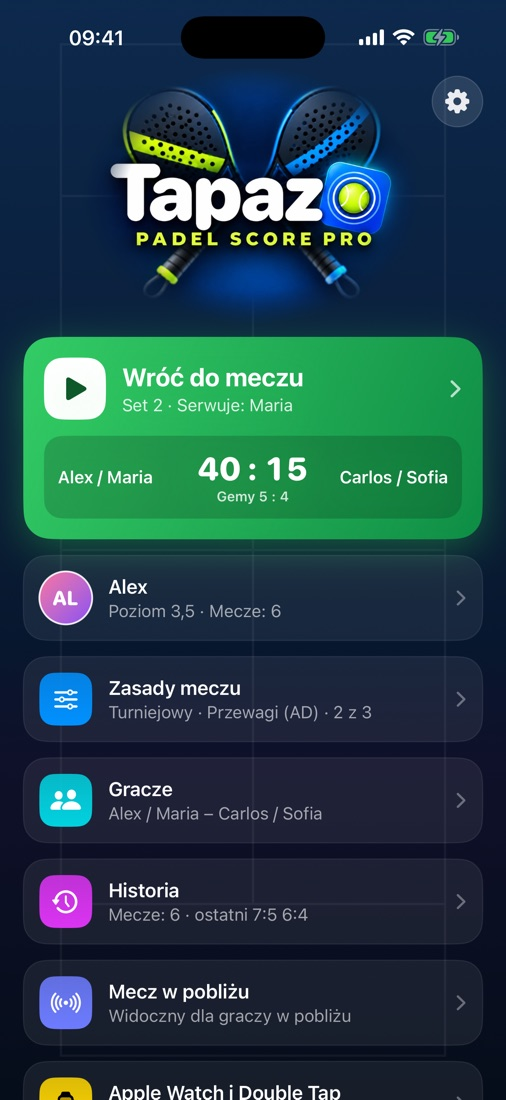
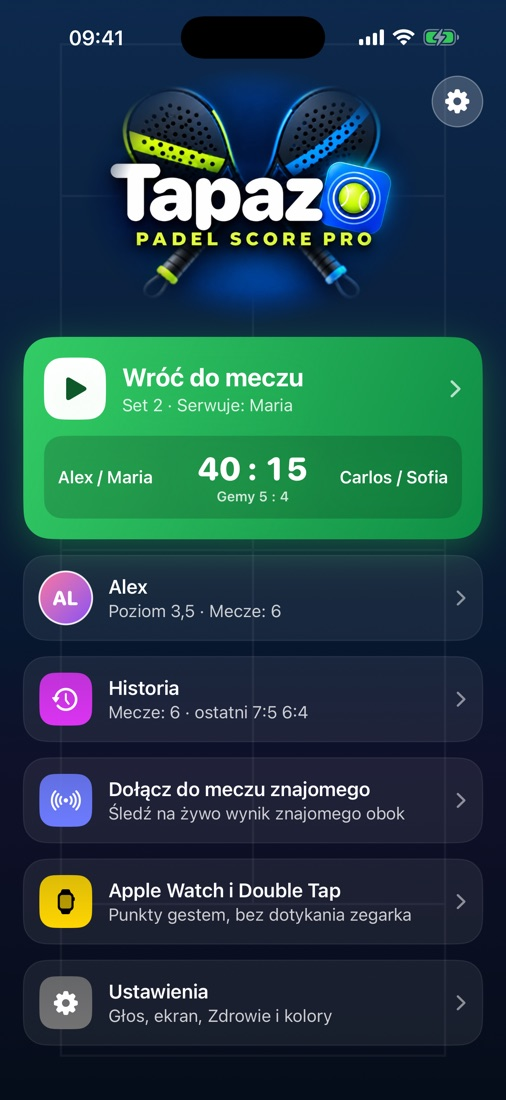
Website: new screenshots and updated help in PL, EN and ES
From mlodylbn/padelscore-app@2e7f845

Changed region(s): [[0.0593, 0.5873, 0.8004, 1.0], [0.7115, 0.8036, 0.8004, 0.8345], [0.919, 0.0927, 0.9486, 0.1236]]

diff --git a/support/index.html b/support/index.html
@@ -103,18 +103,18 @@
     <details>
       <summary><span lang="pl">Czym różni się mecz towarzyski od turniejowego?</span><span lang="en">What is the difference between a friendly and a tournament match?</span><span lang="es">¿Qué diferencia hay entre un partido amistoso y uno de torneo?</span></summary>
       <div class="answer">
-        <p lang="pl">W&nbsp;meczu towarzyskim strony zmienia się tylko po każdym secie. W&nbsp;meczu turniejowym, jak w&nbsp;oficjalnych przepisach, po nieparzystych gemach i&nbsp;co 6&nbsp;punktów w&nbsp;tie-breaku. Nowy mecz jest domyślnie towarzyski, a&nbsp;rodzaj zmienisz w&nbsp;Zasadach meczu. Tam włączysz też odliczanie czasu na zmianę stron: osobno po secie i&nbsp;po gemie, 90, 120 lub 180&nbsp;s. Gdy czas minie, zegarek zawibruje.</p>
-        <p lang="en">In a friendly match, ends change only after each set. In a tournament match, as in the official rules, they change after odd games and every 6 points of a tie-break. A new match is friendly by default; change the type in Match rules. There you can also turn on a change of ends timer: separately after a set and after a game, 90, 120 or 180&nbsp;s. When the time is up, the watch taps your wrist.</p>
-        <p lang="es">En un partido amistoso, el cambio de lado se hace solo tras cada set. En un partido de torneo, como en el reglamento oficial, tras los juegos impares y cada 6 puntos del tie-break. Un partido nuevo es amistoso por defecto; cambia el tipo en Reglas del partido. Allí también puedes activar un temporizador para el cambio de lado: por separado tras un set y tras un juego, 90, 120 o 180&nbsp;s. Cuando se acaba el tiempo, el reloj te avisa en la muñeca.</p>
+        <p lang="pl">W&nbsp;meczu towarzyskim strony zmienia się tylko po każdym secie. W&nbsp;meczu turniejowym, jak w&nbsp;oficjalnych przepisach, po nieparzystych gemach i&nbsp;co 6&nbsp;punktów w&nbsp;tie-breaku. Rodzaj meczu wybierasz na ekranie „Nowy mecz”, a&nbsp;w&nbsp;trakcie gry zmienisz go w&nbsp;menu meczu („…” › Więcej › Zasady meczu). Tam włączysz też odliczanie czasu na zmianę stron: osobno po secie i&nbsp;po gemie, 90, 120 lub 180&nbsp;s. Gdy czas minie, zegarek zawibruje.</p>
+        <p lang="en">In a friendly match, ends change only after each set. In a tournament match, as in the official rules, they change after odd games and every 6 points of a tie-break. Choose the match type on the “New match” screen; during play, change it in the match menu (“…” › More › Match rules). There you can also turn on a change of ends timer: separately after a set and after a game, 90, 120 or 180&nbsp;s. When the time is up, the watch taps your wrist.</p>
+        <p lang="es">En un partido amistoso, el cambio de lado se hace solo tras cada set. En un partido de torneo, como en el reglamento oficial, tras los juegos impares y cada 6 puntos del tie-break. Elige el tipo de partido en la pantalla «Nuevo partido»; durante el juego, cámbialo en el menú del partido («…» › Más › Reglas del partido). Allí también puedes activar un temporizador para el cambio de lado: por separado tras un set y tras un juego, 90, 120 o 180&nbsp;s. Cuando se acaba el tiempo, el reloj te avisa en la muñeca.</p>
       </div>
     </details>
 
     <details>
       <summary><span lang="pl">Nie mogę zmienić formatu meczu</span><span lang="en">I can't change the match format</span><span lang="es">No puedo cambiar el formato del partido</span></summary>
       <div class="answer">
-        <p lang="pl">Liczbę setów, długość setów i&nbsp;super tie-break można zmienić tylko przed pierwszym punktem, aby nie zepsuć trwającego wyniku. Rozpocznij nowy mecz („Nowy mecz”), a&nbsp;potem zmień format w&nbsp;Zasadach meczu. Punktację przy 40:40, rodzaj meczu i&nbsp;czas na zmianę stron możesz zmienić w&nbsp;każdej chwili.</p>
-        <p lang="en">The number of sets, set length and super tie-break can only be changed before the first point, so a running score stays valid. Start a new match ("New match"), then change the format in Match rules. The scoring at 40:40, the match type and the change of ends timer can be changed at any time.</p>
-        <p lang="es">El número de sets, su duración y el súper tie-break solo se pueden cambiar antes del primer punto, para que el marcador en curso siga siendo válido. Empieza un partido nuevo («Nuevo partido») y cambia el formato en Reglas del partido. El tanteo con 40:40, el tipo de partido y el temporizador de cambio de lado se pueden cambiar en cualquier momento.</p>
+        <p lang="pl">Liczbę setów, długość setów i&nbsp;super tie-break można zmienić tylko przed pierwszym punktem, aby nie zepsuć trwającego wyniku. Stuknij „Nowy mecz” i&nbsp;zmień format przyciskiem „Zmień” przy zasadach. Punktację przy 40:40, rodzaj meczu i&nbsp;czas na zmianę stron możesz zmienić w&nbsp;każdej chwili.</p>
+        <p lang="en">The number of sets, set length and super tie-break can only be changed before the first point, so a running score stays valid. Tap "New match" and change the format with the "Change" button next to the rules. The scoring at 40:40, the match type and the change of ends timer can be changed at any time.</p>
+        <p lang="es">El número de sets, su duración y el súper tie-break solo se pueden cambiar antes del primer punto, para que el marcador en curso siga siendo válido. Toca «Nuevo partido» y cambia el formato con el botón «Cambiar» junto a las reglas. El tanteo con 40:40, el tipo de partido y el temporizador de cambio de lado se pueden cambiar en cualquier momento.</p>
       </div>
     </details>
 
@@ -139,18 +139,18 @@
     <details>
       <summary><span lang="pl">Mecz nie zapisuje się jako trening</span><span lang="en">The match isn't saved as a workout</span><span lang="es">El partido no se guarda como entrenamiento</span></summary>
       <div class="answer">
-        <p lang="pl">Włącz „Zapisuj mecz jako trening” w&nbsp;ustawieniach i&nbsp;zezwól Tapazo na dostęp do Zdrowia na zegarku. Trening startuje z&nbsp;pierwszym punktem albo ręcznie z&nbsp;menu zegarka. Uprawnienia zmienisz w&nbsp;Ustawieniach › Zdrowie › Dostęp do danych i&nbsp;urządzenia › Tapazo.</p>
-        <p lang="en">Turn on "Save match as workout" in settings and allow Tapazo to access Health on your watch. The workout starts with the first point, or manually from the watch menu. You can change permissions in Settings › Health › Data Access &amp; Devices › Tapazo.</p>
-        <p lang="es">Activa «Guardar partido como entrenamiento» en los ajustes y permite que Tapazo acceda a Salud en tu reloj. El entrenamiento empieza con el primer punto o manualmente desde el menú del reloj. Puedes cambiar los permisos en Ajustes › Salud › Acceso a datos y dispositivos › Tapazo.</p>
+        <p lang="pl">Opcja „Zapisuj mecz jako trening” jest domyślnie włączona (Ustawienia › Zdrowie). Po ekranie powitalnym zegarek wyjaśnia, co zapisuje, i&nbsp;prosi o&nbsp;dostęp do Zdrowia – trzeba się zgodzić. Po wybraniu „Nie teraz” włącz zapis ponownie w&nbsp;menu zegarka albo w&nbsp;ustawieniach na iPhonie. Trening startuje z&nbsp;pierwszym punktem albo ręcznie z&nbsp;menu zegarka. Uprawnienia zmienisz w&nbsp;Ustawieniach › Zdrowie › Dostęp do danych i&nbsp;urządzenia › Tapazo.</p>
+        <p lang="en">"Save match as workout" is on by default (Settings › Health). After its welcome screen, the watch explains what is saved and asks for Health access – please allow it. If you chose "Not now", turn it back on in the watch menu or in settings on your iPhone. The workout starts with the first point, or manually from the watch menu. You can change permissions in Settings › Health › Data Access &amp; Devices › Tapazo.</p>
+        <p lang="es">«Guardar partido como entrenamiento» está activado por defecto (Ajustes › Salud). Tras la pantalla de bienvenida, el reloj explica qué se guarda y pide acceso a Salud: permítelo. Si elegiste «Ahora no», vuelve a activarlo en el menú del reloj o en los ajustes del iPhone. El entrenamiento empieza con el primer punto o manualmente desde el menú del reloj. Puedes cambiar los permisos en Ajustes › Salud › Acceso a datos y dispositivos › Tapazo.</p>
       </div>
     </details>
 
     <details>
       <summary><span lang="pl">Jak usunąć mecz z&nbsp;historii?</span><span lang="en">How do I delete a match from history?</span><span lang="es">¿Cómo elimino un partido del historial?</span></summary>
       <div class="answer">
-        <p lang="pl">Na iPhonie otwórz Historię, przytrzymaj kartę meczu i&nbsp;wybierz „Usuń mecz”. Możesz też otworzyć mecz i&nbsp;stuknąć „Usuń mecz” na dole. Całą historię usuniesz przyciskiem „Usuń całą historię” na samym dole Historii. Mecz zniknie z&nbsp;obu urządzeń. Trening zapisany w&nbsp;Zdrowiu usuniesz w&nbsp;aplikacji Zdrowie.</p>
-        <p lang="en">On iPhone, open History, touch and hold a match card and choose "Delete match". You can also open the match and tap "Delete match" at the bottom. To clear everything, tap "Delete all history" at the very bottom of History. The match is removed from both devices. A workout saved in Health can be deleted in the Health app.</p>
-        <p lang="es">En el iPhone, abre Historial, mantén pulsada la tarjeta de un partido y elige «Eliminar partido». También puedes abrir el partido y tocar «Eliminar partido» abajo. Para borrarlo todo, toca «Eliminar todo el historial» al final del Historial. El partido se elimina de los dos dispositivos. Un entrenamiento guardado en Salud se puede borrar en la app Salud.</p>
+        <p lang="pl">Na iPhonie otwórz Historię, przytrzymaj kartę meczu i&nbsp;wybierz „Usuń mecz”. Możesz też otworzyć mecz i&nbsp;stuknąć ikonę kosza w&nbsp;prawym górnym rogu. Całą historię usuniesz przyciskiem „Usuń całą historię” na samym dole Historii. Mecz zniknie z&nbsp;obu urządzeń. Trening zapisany w&nbsp;Zdrowiu usuniesz w&nbsp;aplikacji Zdrowie.</p>
+        <p lang="en">On iPhone, open History, touch and hold a match card and choose "Delete match". You can also open the match and tap the trash icon in the top right corner. To clear everything, tap "Delete all history" at the very bottom of History. The match is removed from both devices. A workout saved in Health can be deleted in the Health app.</p>
+        <p lang="es">En el iPhone, abre Historial, mantén pulsada la tarjeta de un partido y elige «Eliminar partido». También puedes abrir el partido y tocar el icono de la papelera arriba a la derecha. Para borrarlo todo, toca «Eliminar todo el historial» al final del Historial. El partido se elimina de los dos dispositivos. Un entrenamiento guardado en Salud se puede borrar en la app Salud.</p>
       </div>
     </details>
 
@@ -166,9 +166,9 @@
     <details>
       <summary><span lang="pl">Jak dodać znajomego do meczu?</span><span lang="en">How do I add a friend to a match?</span><span lang="es">¿Cómo añado a un amigo a un partido?</span></summary>
       <div class="answer">
-        <p lang="pl">Znajomy otwiera Tapazo na swoim iPhonie. U&nbsp;Ciebie pojawi się w&nbsp;sekcji „W&nbsp;pobliżu” na ekranie „Nowy mecz” (i&nbsp;w&nbsp;Graczach). Stuknij go i&nbsp;wybierz drużynę. Znajomy dostanie zaproszenie, a&nbsp;po dołączeniu zobaczy wynik na swoim iPhonie i&nbsp;Apple&nbsp;Watch. Punkty liczysz tylko Ty, a&nbsp;po meczu każdy ma go w&nbsp;swojej historii. Przy pierwszym użyciu iOS poprosi o&nbsp;dostęp do sieci lokalnej – trzeba się zgodzić.</p>
-        <p lang="en">Your friend opens Tapazo on their iPhone. On yours, they appear under “Nearby” on the “New match” screen (and in Players). Tap them and choose a team. Your friend gets an invitation and, after joining, sees the score on their iPhone and Apple&nbsp;Watch. Only you score points, and after the match everyone has it in their history. The first time, iOS asks for local network access – please allow it.</p>
-        <p lang="es">Tu amigo abre Tapazo en su iPhone. En el tuyo aparece en la sección «Cerca» de la pantalla «Nuevo partido» (y en Jugadores). Tócalo y elige un equipo. Tu amigo recibe una invitación y, tras unirse, ve el marcador en su iPhone y su Apple&nbsp;Watch. Solo tú marcas los puntos y, al terminar, todos tienen el partido en su historial. La primera vez, iOS pide acceso a la red local: permítelo.</p>
+        <p lang="pl">Znajomy otwiera Tapazo na swoim iPhonie. U&nbsp;Ciebie pojawi się w&nbsp;sekcji „W&nbsp;pobliżu” na ekranie „Nowy mecz”. W&nbsp;trakcie meczu zaprosisz go z&nbsp;menu „…” › Więcej › Zaproś znajomych z&nbsp;pobliża. Stuknij go i&nbsp;wybierz drużynę. Znajomy dostanie zaproszenie, a&nbsp;po dołączeniu zobaczy wynik na swoim iPhonie i&nbsp;Apple&nbsp;Watch. Punkty liczysz tylko Ty, a&nbsp;po meczu każdy ma go w&nbsp;swojej historii. Przy pierwszym użyciu iOS poprosi o&nbsp;dostęp do sieci lokalnej – trzeba się zgodzić.</p>
+        <p lang="en">Your friend opens Tapazo on their iPhone. On yours, they appear under “Nearby” on the “New match” screen. During a match, invite them from the “…” menu › More › Invite friends nearby. Tap them and choose a team. Your friend gets an invitation and, after joining, sees the score on their iPhone and Apple&nbsp;Watch. Only you score points, and after the match everyone has it in their history. The first time, iOS asks for local network access – please allow it.</p>
+        <p lang="es">Tu amigo abre Tapazo en su iPhone. En el tuyo aparece en la sección «Cerca» de la pantalla «Nuevo partido». Durante el partido, invítalo desde el menú «…» › Más › Invitar a amigos cercanos. Tócalo y elige un equipo. Tu amigo recibe una invitación y, tras unirse, ve el marcador en su iPhone y su Apple&nbsp;Watch. Solo tú marcas los puntos y, al terminar, todos tienen el partido en su historial. La primera vez, iOS pide acceso a la red local: permítelo.</p>
       </div>
     </details>
 
@@ -184,9 +184,9 @@
     <details>
       <summary><span lang="pl">Jak działa Americano?</span><span lang="en">How does Americano work?</span><span lang="es">¿Cómo funciona el Americano?</span></summary>
       <div class="answer">
-        <p lang="pl">W&nbsp;Zasadach meczu wybierz „Americano” i&nbsp;sumę punktów: 16, 21, 24, 32 albo własną. Punkty liczy się 1, 2, 3…, a&nbsp;mecz kończy się, gdy obie drużyny razem zdobędą tę sumę. Serwis zmienia się co ustaloną liczbę punktów. Opcjonalnie strony zmienia się w&nbsp;połowie meczu.</p>
-        <p lang="en">In Match rules, choose “Americano” and the total: 16, 21, 24, 32 or your own. Points are counted 1, 2, 3…, and the match ends when both teams together reach the total. The serve changes every set number of points. Optionally, teams change ends at half time.</p>
-        <p lang="es">En Reglas del partido, elige «Americano» y el total: 16, 21, 24, 32 o el que quieras. Los puntos se cuentan 1, 2, 3… y el partido termina cuando los dos equipos juntos llegan al total. El saque cambia cada cierto número de puntos. Si quieres, los equipos cambian de lado a mitad del partido.</p>
+        <p lang="pl">Na ekranie „Nowy mecz” wybierz „Americano” i&nbsp;sumę punktów: 16, 21, 24, 32 albo własną. Punkty liczy się 1, 2, 3…, a&nbsp;mecz kończy się, gdy obie drużyny razem zdobędą tę sumę. Serwis zmienia się co ustaloną liczbę punktów. Opcjonalnie strony zmienia się w&nbsp;połowie meczu.</p>
+        <p lang="en">On the “New match” screen, choose “Americano” and the total: 16, 21, 24, 32 or your own. Points are counted 1, 2, 3…, and the match ends when both teams together reach the total. The serve changes every set number of points. Optionally, teams change ends at half time.</p>
+        <p lang="es">En la pantalla «Nuevo partido», elige «Americano» y el total: 16, 21, 24, 32 o el que quieras. Los puntos se cuentan 1, 2, 3… y el partido termina cuando los dos equipos juntos llegan al total. El saque cambia cada cierto número de puntos. Si quieres, los equipos cambian de lado a mitad del partido.</p>
       </div>
     </details>
 

diff --git a/index.html b/index.html
@@ -154,7 +154,7 @@
       <article class="card reveal">
         <div class="icon c-teal"><svg class="i"><use href="#i-wave"/></svg></div>
         <h3><span lang="pl">Mecz ze znajomymi w&nbsp;pobliżu</span><span lang="en">Play with friends nearby</span><span lang="es">Juega con amigos cercanos</span></h3>
-        <p><span lang="pl">Znajomi z&nbsp;Tapazo na korcie pojawiają się w&nbsp;Graczach. Dodaj ich do drużyny, a&nbsp;wynik zobaczą na swoim iPhonie i&nbsp;zegarku. Mecz trafi też do ich historii. Bez internetu.</span><span lang="en">Friends with Tapazo on court appear in Players. Add them to a team and they see the score on their iPhone and watch. The match goes into their history too. No internet needed.</span><span lang="es">Los amigos con Tapazo en la pista aparecen en Jugadores. Añádelos a un equipo y verán el marcador en su iPhone y su reloj. El partido también se guarda en su historial. Sin internet.</span></p>
+        <p><span lang="pl">Znajomi z&nbsp;Tapazo na korcie pojawiają się na ekranie „Nowy mecz”. Dodaj ich do drużyny, a&nbsp;wynik zobaczą na swoim iPhonie i&nbsp;zegarku. Mecz trafi też do ich historii. Bez internetu.</span><span lang="en">Friends with Tapazo on court appear on the New match screen. Add them to a team and they see the score on their iPhone and watch. The match goes into their history too. No internet needed.</span><span lang="es">Los amigos con Tapazo en la pista aparecen en la pantalla Nuevo partido. Añádelos a un equipo y verán el marcador en su iPhone y su reloj. El partido también se guarda en su historial. Sin internet.</span></p>
       </article>
       <article class="card reveal">
         <div class="icon c-pink"><svg class="i"><use href="#i-user"/></svg></div>
@@ -273,7 +273,7 @@
       <figure class="shot reveal">
         <div class="frame"><img src="assets/iphone-home.jpg" loading="lazy" width="506" height="1100" alt="Menu startowe Tapazo z trwającym meczem" data-en="assets/en/iphone-home.jpg" data-alt-en="Tapazo home screen with a match in progress" data-es="assets/es/iphone-home.jpg" data-alt-es="Pantalla de inicio de Tapazo con un partido en curso"></div>
         <figcaption><span lang="pl">Start</span><span lang="en">Start</span><span lang="es">Inicio</span>
-          <span><span lang="pl">Mecz, profil, gracze i&nbsp;historia</span><span lang="en">Match, profile, players and history</span><span lang="es">Partido, perfil, jugadores e historial</span></span></figcaption>
+          <span><span lang="pl">Mecz, profil, historia i&nbsp;ustawienia</span><span lang="en">Match, profile, history and settings</span><span lang="es">Partido, perfil, historial y ajustes</span></span></figcaption>
       </figure>
       <figure class="shot reveal">
         <div class="frame"><img src="assets/iphone-score.jpg" loading="lazy" width="506" height="1100" alt="Ekran meczu z piłką setową" data-en="assets/en/iphone-score.jpg" data-alt-en="Match screen with a set point" data-es="assets/es/iphone-score.jpg" data-alt-es="Pantalla del partido con bola de set"></div>
@@ -301,7 +301,7 @@
           <span><span lang="pl">Poziom, styl gry i&nbsp;statystyki</span><span lang="en">Level, playing style and statistics</span><span lang="es">Nivel, estilo de juego y estadísticas</span></span></figcaption>
       </figure>
       <figure class="shot reveal">
-        <div class="frame"><img src="assets/iphone-stats.jpg" loading="lazy" width="506" height="1100" alt="Statystyki meczu, wykres przebiegu i grafika z wynikiem" data-en="assets/en/iphone-stats.jpg" data-alt-en="Match statistics and match flow chart" data-es="assets/es/iphone-stats.jpg" data-alt-es="Estadísticas y gráfico del partido"></div>
+        <div class="frame"><img src="assets/iphone-stats.jpg" loading="lazy" width="506" height="1100" alt="Szczegóły meczu: wykres przebiegu i grafika z wynikiem do udostępnienia" data-en="assets/en/iphone-stats.jpg" data-alt-en="Match details: match flow chart and a shareable result image" data-es="assets/es/iphone-stats.jpg" data-alt-es="Detalles del partido: gráfico del partido e imagen del resultado para compartir"></div>
         <figcaption><span lang="pl">Statystyki</span><span lang="en">Statistics</span><span lang="es">Estadísticas</span>
           <span><span lang="pl">Breaki, serwis i&nbsp;przebieg meczu</span><span lang="en">Breaks, serve and match flow</span><span lang="es">Breaks, saque y desarrollo del partido</span></span></figcaption>
       </figure>
